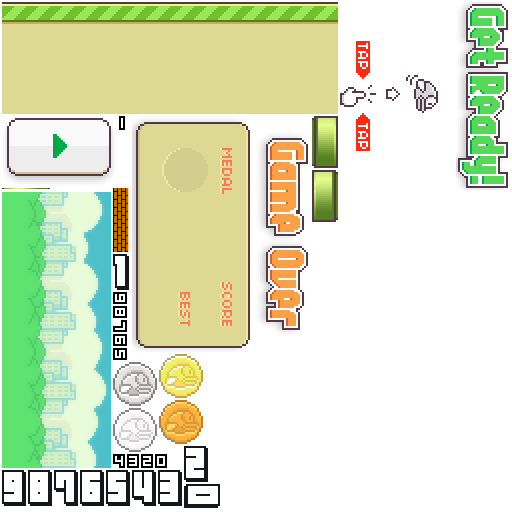
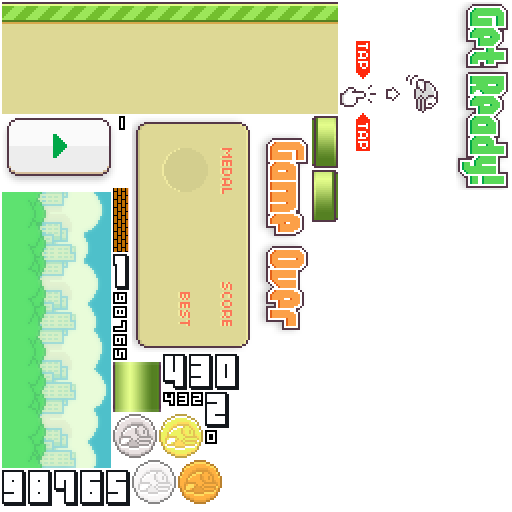
bird pipe

Changed region(s): [[0.2188, 0.6875, 0.4688, 1.0]]

diff --git a/src/mainScene.js b/src/mainScene.js
@@ -24,15 +24,26 @@
  THE SOFTWARE.
  ****************************************************************************/
 
+var pipetimeinterval = 3;
+var gravity = -9.8 * 100;
+var speedx = 70;
+
 var main = cc.Layer.extend({
     shareTexture : null,
     landSprite : null,
     bird : null,
+    pipes : new Array(),
+    pipeInterval : 1,
+    pipeNext : 2,
+    isStart : false,
+    readyNode : null,
 
     init:function () {
         //////////////////////////////
         // 1. super init first
         this._super();
+
+        this.setMouseEnabled(true);
 
         winSize = cc.Director.getInstance().getWinSize();
 
@@ -58,13 +69,21 @@ var main = cc.Layer.extend({
         this.landSprite.initWithSpriteFrameName("land.png");
         this.landSprite.setAnchorPoint(0,0);
         this.landSprite.setScale(1.1,1);
-        this.addChild(this.landSprite, 0, 0);
-//        sp.setOffsetInPixels
-        this.MoveLand();
+        this.addChild(this.landSprite, 10, 0);
 
-        bird = new Bird();
-        bird.setPosition(cc.p(96,200));
-        this.addChild(bird,1,0);
+        this.schedule(this.MoveLand,24 * 1.1 / speedx);
+
+        this.bird = new bird();
+        this.bird.setPosition(cc.p(96,250));
+        this.addChild(this.bird,1,0);
+
+//        var pipe = waterpipe.create(cc.p(0,200));
+//        pipe.setPosition(cc.p(100,0));
+//        this.addChild(pipe,1,0);
+
+        this.Ready();
+
+//        this.schedule(this.update, 0.1);
 
         return true;
     },
@@ -75,11 +94,28 @@ var main = cc.Layer.extend({
     MoveLand:function(){
         this.landSprite.setPosition(cc.p(0,0));
         this.landSprite.runAction(cc.MoveTo.create(1,cc.p(-24 * 1.1,0)));
-        this.schedule(this.MoveLand,1);
     },
     // a selector callback
     menuCloseCallback:function (sender) {
         cc.Director.getInstance().end();
+    },
+    onMouseDown:function (event) {
+        this._super();
+
+        if(this.isStart === false)
+        {
+            this.StartGame();
+        }
+        if(this.isStart === true)
+        {
+            this.bird.jump();
+        }
+    },
+    onTouchEnded:function (touch, event) {
+        if(this.isStart === false)
+        {
+            this.StartGame();
+        }
     },
     onTouchesBegan:function (touches, event) {
         this.isMouseDown = true;
@@ -96,6 +132,61 @@ var main = cc.Layer.extend({
     },
     onTouchesCancelled:function (touches, event) {
         console.log("onTouchesCancelled");
+    },
+    Ready:function(){
+        cc.SpriteFrameCache.getInstance().addSpriteFrames(res.shareTexture_plist);
+        var sp = new cc.Sprite();
+//        sp.setTextureRect(cc.rect(0,0,320,109));
+        sp.initWithSpriteFrameName("splash.png");
+        sp.setAnchorPoint(0.5,0.5);
+        this.addChild(sp, 8,0);
+        var pos = cc.p(160,240);
+        sp.setPosition(pos);
+
+        this.readyNode = sp;
+    },
+    StartGame : function(){
+        this.isStart = true;
+        this.removeChild(this.readyNode);
+        this.scheduleUpdate();
+        this.bird.scheduleUpdate();
+    },
+    update:function (dt) {
+        this.Pipeupdate(dt);
+    },
+    Pipeupdate:function(dt){
+        this.pipeNext -= dt;
+        if(this.pipeNext <= 0)
+        {
+            this.pipeNext = pipetimeinterval;
+            this.PipeCreate();
+        }
+
+        for(i = 0;i < this.pipes.length;i ++)
+        {
+            this.pipes[i].setPosition(cc.p(this.pipes[i].getPosition().x - this.pipes[i].speed * dt,this.pipes[i].getPosition().y));
+        }
+
+        while(this.pipes.length > 0)
+        {
+            var pipe = this.pipes[0];
+            if(pipe.getPosition().x < -30)
+            {
+                pipe = this.pipes.shift();
+                this.removeChild(pipe);
+            }
+            else
+            {
+                break;
+            }
+        }
+    },
+    PipeCreate : function(){
+        var pipe = waterpipe.create(cc.p(0,Math.random() * 200 + 200));
+        pipe.setPosition(cc.p(350,0));
+        this.addChild(pipe,1,0);
+
+        this.pipes.push(pipe);
     }
 });
 

diff --git a/src/waterpipe.js b/src/waterpipe.js
@@ -1,9 +1,10 @@
 /**
  * Created by liyupeng on 14-2-26.
  */
+
 var waterpipeinterval = 100;
-var waterpipe = cc.Node.extend({
-    speed:24,
+var waterpipe = cc.Layer.extend({
+    speed:50,
     boxUp : null,
     boxDown : null,
     sprites : null,
@@ -12,17 +13,48 @@ var waterpipe = cc.Node.extend({
     init:function (center) {
         this._super();
 
+        this.center = center;
+        this.speed = speedx;
         cc.SpriteFrameCache.getInstance().addSpriteFrames(res.shareTexture_plist);
 
         var sp = new cc.Sprite();
-//        sp.setTextureRect(cc.rect(0,0,320,109));
-        sp.initWithSpriteFrameName("sky.png");
-        sp.setAnchorPoint(26,0);
-        this.addChild(sp, 0,0);
-        var pos = cc.p(0,112);
+        sp.initWithSpriteFrameName("pipe-down.png");
+        sp.setAnchorPoint(0.5,0);
+        var pos = cc.p(0,this.center.y + waterpipeinterval * 0.5);
         sp.setPosition(pos);
-    }
+        this.addChild(sp, 0,0);
+
+        sp = new cc.Sprite();
+        sp.initWithSpriteFrameName("pipe.png");
+        sp.setAnchorPoint(0.5,0);
+        var pos = cc.p(0,this.center.y + waterpipeinterval * 0.5 + 26);
+        sp.setPosition(pos);
+        sp.setScale(1,10);
+        this.addChild(sp, 0,0);
+
+        sp = new cc.Sprite();
+        sp.initWithSpriteFrameName("pipe-up.png");
+        sp.setAnchorPoint(0.5,1);
+        var pos = cc.p(0,this.center.y - waterpipeinterval * 0.5);
+        sp.setPosition(pos);
+        this.addChild(sp, 0,0);
+
+        sp = new cc.Sprite();
+        sp.initWithSpriteFrameName("pipe.png");
+        sp.setAnchorPoint(0.5,1);
+        var pos = cc.p(0,this.center.y - waterpipeinterval * 0.5 - 26);
+        sp.setPosition(pos);
+        sp.setScale(1,10);
+        this.addChild(sp, 0,0);
+
+        return true;
+    },
 });
 waterpipe.create = function(center){
-
-}
+    var pipe = new waterpipe();
+    if(pipe && pipe.init(center))
+    {
+        return pipe;
+    }
+    return null;
+};

diff --git a/src/bird.js b/src/bird.js
@@ -2,7 +2,6 @@
  * Created by liyupeng on 14-2-26.
  */
 var bird = cc.Sprite.extend({
-    speedx : 50,
     HP:1,
     box:null,
     speedy : 0,
@@ -39,13 +38,19 @@ var bird = cc.Sprite.extend({
 
         this.animateFly.release();
     },
+    jump:function(){
+        this.speedy = 300;
+    },
     PlayFly:function(flag){
         if(flag === true)
             this.runAction(animateFly);
         else
             this.removeAction(animateFly);
+    },
+    update:function (dt) {
+//        alert("update");
+        this.speedy += gravity * dt;
+        this.setPosition(this.getPosition().x , this.getPosition().y + this.speedy * dt);
     }
-
 })
-bird.gravity = 9.8 * 20;
 

diff --git a/src/menu.js b/src/menu.js
@@ -59,7 +59,7 @@ var menu = cc.Layer.extend({
         this.landSprite.setScale(1.1,1);
         this.addChild(this.landSprite, 0, 0);
 //        sp.setOffsetInPixels
-        this.MoveLand();
+        this.schedule(this.MoveLand,0.48);
 
 
         var playNormal = new cc.Sprite();
@@ -99,7 +99,6 @@ var menu = cc.Layer.extend({
     MoveLand:function(){
         this.landSprite.setPosition(cc.p(0,0));
         this.landSprite.runAction(cc.MoveTo.create(1,cc.p(-24 * 1.1,0)));
-        this.schedule(this.MoveLand,1);
     },
     // a selector callback
     menuCloseCallback:function (sender) {
